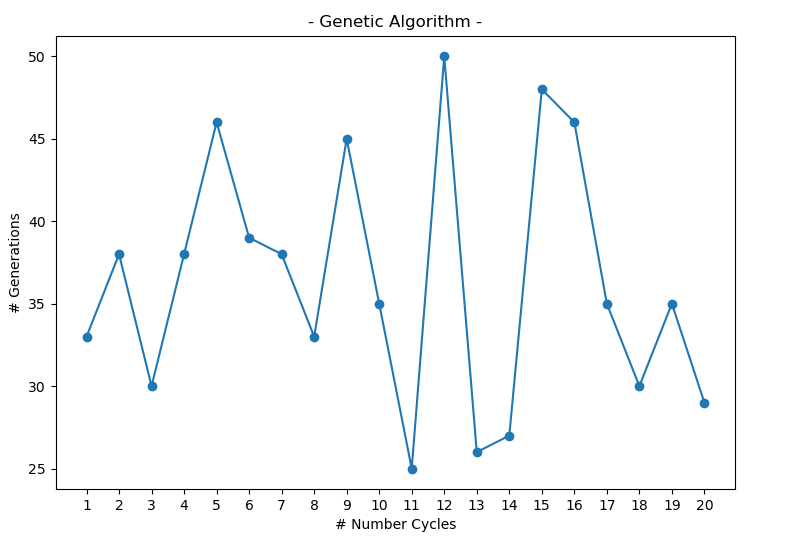
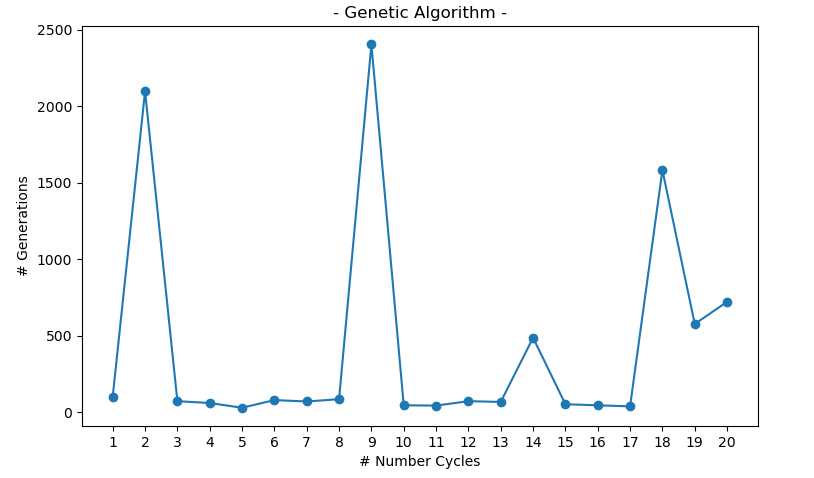
Add Images

diff --git a/asdasd.py b/asdasd.py
@@ -1,0 +1,9 @@
+
+var4=[21, 34, 24, 31, 28, 25, 31, 36, 29, 24, 20, 21, 29, 32, 25, 29, 24, 30, 28, 27]
+var3=[31, 36, 33, 20, 22, 29, 38, 30, 19, 35, 24, 27, 31, 39, 32, 34, 30, 28, 17, 24]
+var2=[56, 50, 42, 37, 17, 42, 215, 63, 33, 41, 27, 37, 36, 36, 31, 11, 37, 40, 25, 31]
+var=[2517, 7460, 1051, 51, 2399, 4615, 660, 38, 417, 159, 928, 2717, 2705, 1177, 4575, 1361, 79, 967, 119, 36]
+i=1;
+for item in var:
+    print(str(i)+" | "+str(item)+ " | "+str(var2[i-1])+" | "+str(var3[i-1])+" | "+str(var4[i-1]))
+    i+=1

diff --git a/genetic_algorithm.py b/genetic_algorithm.py
@@ -7,9 +7,9 @@ from graph_cycle_generation import graph_generations
 
 # Global Vars
 genes_number=20
-quantity_population=100
+quantity_population=1000
 
-crossover_probability=0.0
+crossover_probability=0.9
 mutation_probability=0.001
 
 # Generate [1, 1, 1, 1, ... ]
